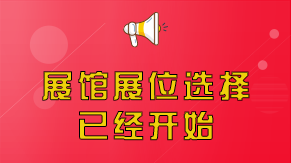
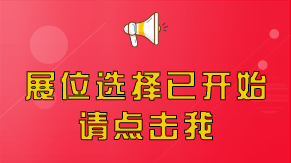
漂浮框改为悬浮框

Changed region(s): [[0.0619, 0.4294, 0.9278, 0.6442], [0.2474, 0.6748, 0.7423, 0.8896]]

diff --git a/templates/prediction/exhprediction_confirm.html b/templates/prediction/exhprediction_confirm.html
@@ -8,11 +8,12 @@
 </head>
 <style>
     .adDiv {
-        position: absolute;
-        left: 50px;
-        top: 60px;
-        animation: change 1s  ease-in  infinite ;
+        position:fixed;
+        right: 10%;
+        top: 160px;
+        /* animation: change 1s  ease-in  infinite ; */
         display: none;
+        z-index: 10000;
     }
 
     .adClose {
@@ -45,7 +46,7 @@
         cursor: pointer;
     }
 
-    .adTitle{
+    /* .adTitle{
         font-weight: bolder;
         text-align: center;
         position: absolute;
@@ -54,7 +55,7 @@
         z-index: 999;
         color:#b70b0b;
         
-    }
+    } */
 
      /* @keyframes change {
             0%{ text-shadow: 0 0 4px #f00}
@@ -379,7 +380,7 @@
     </div>
      <!-- 漂浮广告 -->
     <div id="imgDiv" class="adDiv">
-        <div id="a" class="adClose">×</div>
+        <!-- <div id="a" class="adClose">×</div> -->
         <div class="adImgDiv">
             <img id="action" class="adImg" src="/static/images/plan/pic_01_chn.png" alt="展馆平面图选择" />
         </div>
@@ -390,49 +391,49 @@
 <script src="../../static/js/prediction/exhprediction_confirm.js"></script>
 <script>
         // 漂浮广告JS
-        var xin = true,
-            yin = true;
-        var step = 1;
-        var delay = 30;
-        var $obj;
-        $(function() {
-            $obj = $("#imgDiv");
-            var time = window.setInterval("move()", delay);
-            $obj.mouseover(function() {
-                clearInterval(time)
-            });
-            $obj.mouseout(function() {
-                time = window.setInterval("move()", delay)
-            });
-        });
+        // var xin = true,
+        //     yin = true;
+        // var step = 1;
+        // var delay = 30;
+        // var $obj;
+        // $(function() {
+        //     $obj = $("#imgDiv");
+        //     var time = window.setInterval("move()", delay);
+        //     $obj.mouseover(function() {
+        //         clearInterval(time)
+        //     });
+        //     $obj.mouseout(function() {
+        //         time = window.setInterval("move()", delay)
+        //     });
+        // });
         
-        function move() {
-            var left = $obj.offset().left;
-            var top = $obj.offset().top;
-            var L =  0; //左边界
-            var T = 85;//顶部边界
-            var R = $(window).width() - $obj.width(); // 右边界
-            var B = $(window).height() - $obj.height(); //下边界
-            if (left < L) {
-                xin = true; // 水平向右移动
-            }
-            if (left > R) {
-                xin = false;
-            }
-            if (top < T) {
-                yin = true;
-            }
-            if (top > B) {
-                yin = false;
-            }
-            left = left + step * (xin == true ? 1 : -1);
-            top = top + step * (yin == true ? 1 : -1);
-            // 给div 元素重新定位
-            $obj.offset({
-                top: top,
-                left: left
-            })
-        }
+        // function move() {
+        //     var left = $obj.offset().left;
+        //     var top = $obj.offset().top;
+        //     var L =  0; //左边界
+        //     var T = 85;//顶部边界
+        //     var R = $(window).width() - $obj.width(); // 右边界
+        //     var B = $(window).height() - $obj.height(); //下边界
+        //     if (left < L) {
+        //         xin = true; // 水平向右移动
+        //     }
+        //     if (left > R) {
+        //         xin = false;
+        //     }
+        //     if (top < T) {
+        //         yin = true;
+        //     }
+        //     if (top > B) {
+        //         yin = false;
+        //     }
+        //     left = left + step * (xin == true ? 1 : -1);
+        //     top = top + step * (yin == true ? 1 : -1);
+        //     // 给div 元素重新定位
+        //     $obj.offset({
+        //         top: top,
+        //         left: left
+        //     })
+        // }
         $(function() {
             $("#a").click(function() {
                 var b = $("#a").parent();
@@ -445,5 +446,5 @@
                //location.href=baseUrl+"/templates/prediction/exhprediction_all.html?1=1&userid=0A4527DBE21D4C0685D27D1CF31E714D&type=BJ&flag=plan/plan_list"
             })
         })
-        </script>    
+</script>    
 </html>

diff --git a/templates/prediction/exhprediction_confirm_ENG.html b/templates/prediction/exhprediction_confirm_ENG.html
@@ -7,12 +7,13 @@
     <title>报名信息确认</title>
 </head>
 <style>
-       .adDiv {
-        position: absolute;
-        left: 50px;
-        top: 60px;
-        animation: change 1s  ease-in  infinite ;
+     .adDiv {
+        position:fixed;
+        right: 10%;
+        top: 160px;
+        /* animation: change 1s  ease-in  infinite ; */
         display: none;
+        z-index: 10000;
     }
 
     .adClose {
@@ -314,11 +315,11 @@
     </div>
 
     <!-- 漂浮广告 -->
-    <div id="imgDiv" class="adDiv">
-            <div id="a" class="adClose">×</div>
-            <div class="adImgDiv">
-                <img id="action" class="adImg" src="/static/images/plan/pic_01_eng.png" alt="Floor Plan Select" />
-            </div>
+    <div class="adDiv">
+        <!-- <div id="a" class="adClose">×</div> -->
+        <div class="adImgDiv">
+            <img id="action" class="adImg" src="/static/images/plan/pic_01_eng.png" alt="Floor Plan Select" />
+        </div>
     </div>
 
 </body>
@@ -326,49 +327,49 @@
 <script src="../../static/js/prediction/exhprediction_confirm_ENG.js"></script>
 <script>
         // 漂浮广告JS
-        var xin = true,
-            yin = true;
-        var step = 1;
-        var delay = 30;
-        var $obj;
-        $(function() {
-            $obj = $("#imgDiv");
-            var time = window.setInterval("move()", delay);
-            $obj.mouseover(function() {
-                clearInterval(time)
-            });
-            $obj.mouseout(function() {
-                time = window.setInterval("move()", delay)
-            });
-        });
+        // var xin = true,
+        //     yin = true;
+        // var step = 1;
+        // var delay = 30;
+        // var $obj;
+        // $(function() {
+        //     $obj = $("#imgDiv");
+        //     var time = window.setInterval("move()", delay);
+        //     $obj.mouseover(function() {
+        //         clearInterval(time)
+        //     });
+        //     $obj.mouseout(function() {
+        //         time = window.setInterval("move()", delay)
+        //     });
+        // });
         
-        function move() {
-            var left = $obj.offset().left;
-            var top = $obj.offset().top;
-            var L =  0; //左边界
-            var T = 85;//顶部边界
-            var R = $(window).width() - $obj.width(); // 右边界
-            var B = $(window).height() - $obj.height(); //下边界
-            if (left < L) {
-                xin = true; // 水平向右移动
-            }
-            if (left > R) {
-                xin = false;
-            }
-            if (top < T) {
-                yin = true;
-            }
-            if (top > B) {
-                yin = false;
-            }
-            left = left + step * (xin == true ? 1 : -1);
-            top = top + step * (yin == true ? 1 : -1);
-            // 给div 元素重新定位
-            $obj.offset({
-                top: top,
-                left: left
-            })
-        }
+        // function move() {
+        //     var left = $obj.offset().left;
+        //     var top = $obj.offset().top;
+        //     var L =  0; //左边界
+        //     var T = 85;//顶部边界
+        //     var R = $(window).width() - $obj.width(); // 右边界
+        //     var B = $(window).height() - $obj.height(); //下边界
+        //     if (left < L) {
+        //         xin = true; // 水平向右移动
+        //     }
+        //     if (left > R) {
+        //         xin = false;
+        //     }
+        //     if (top < T) {
+        //         yin = true;
+        //     }
+        //     if (top > B) {
+        //         yin = false;
+        //     }
+        //     left = left + step * (xin == true ? 1 : -1);
+        //     top = top + step * (yin == true ? 1 : -1);
+        //     // 给div 元素重新定位
+        //     $obj.offset({
+        //         top: top,
+        //         left: left
+        //     })
+        // }
         $(function() {
             $("#a").click(function() {
                 var b = $("#a").parent();
